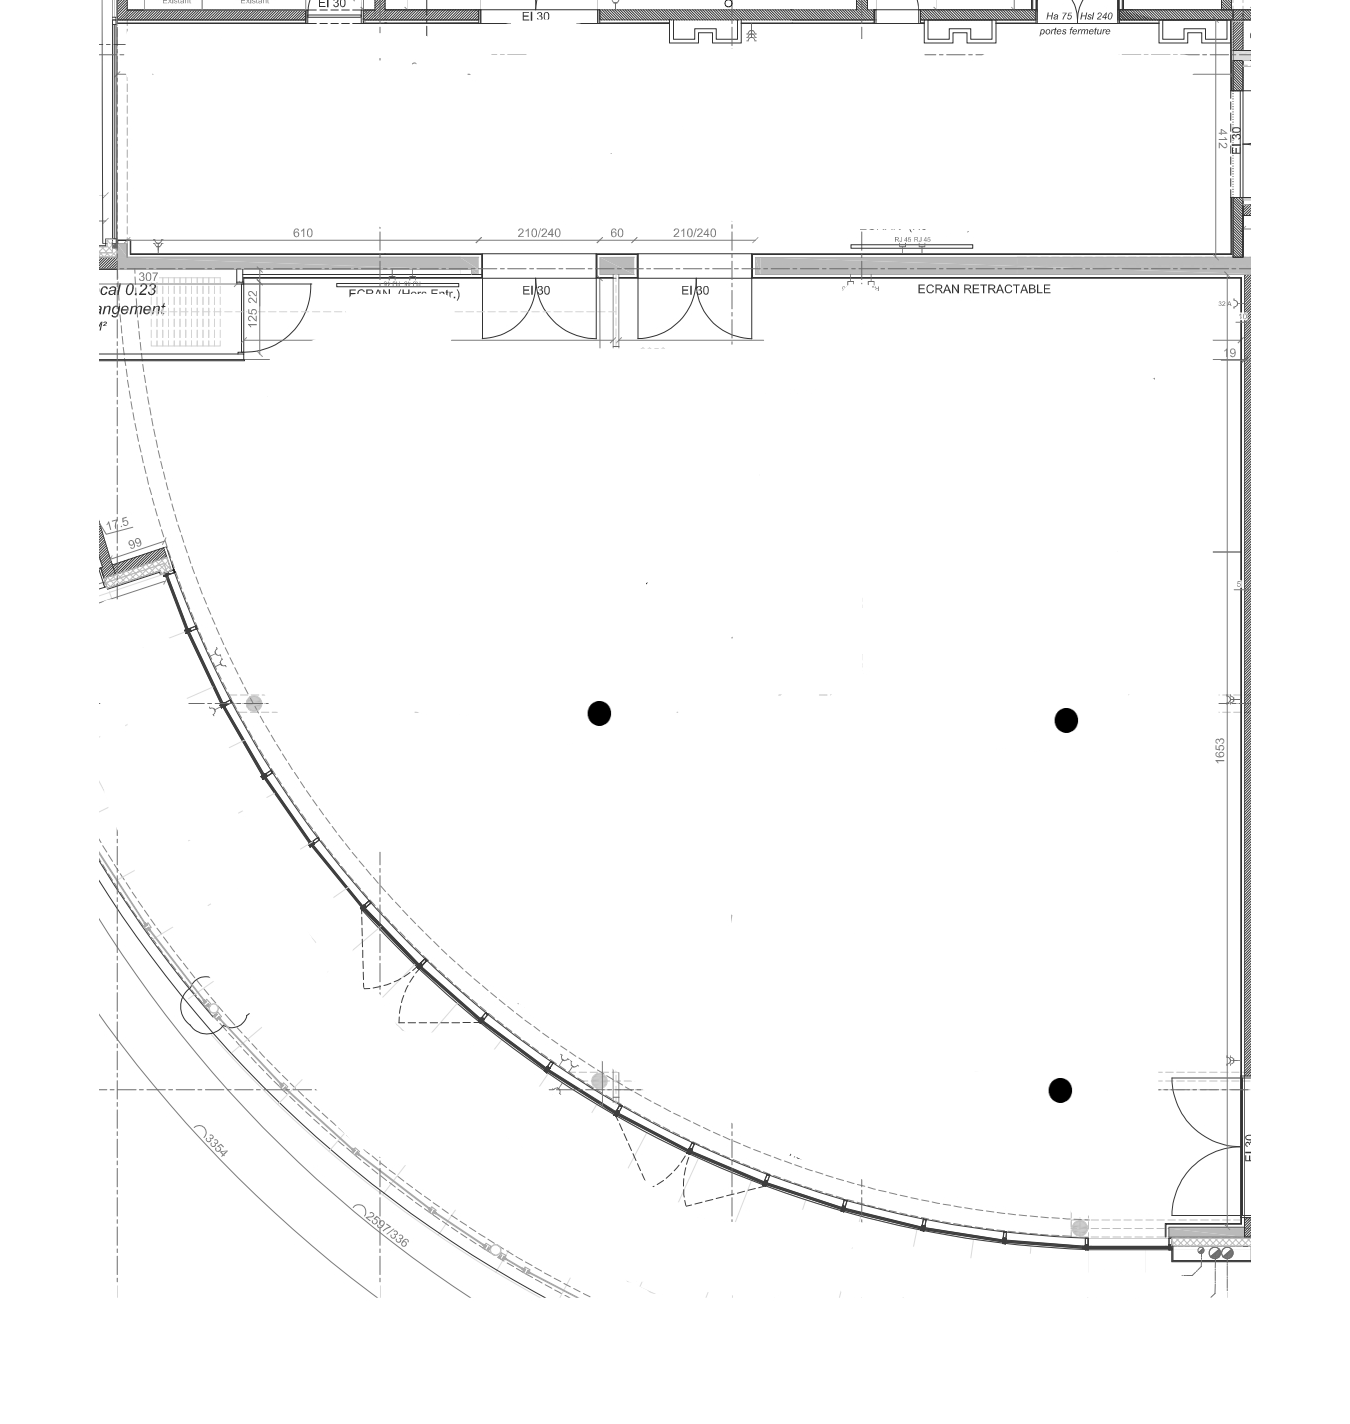
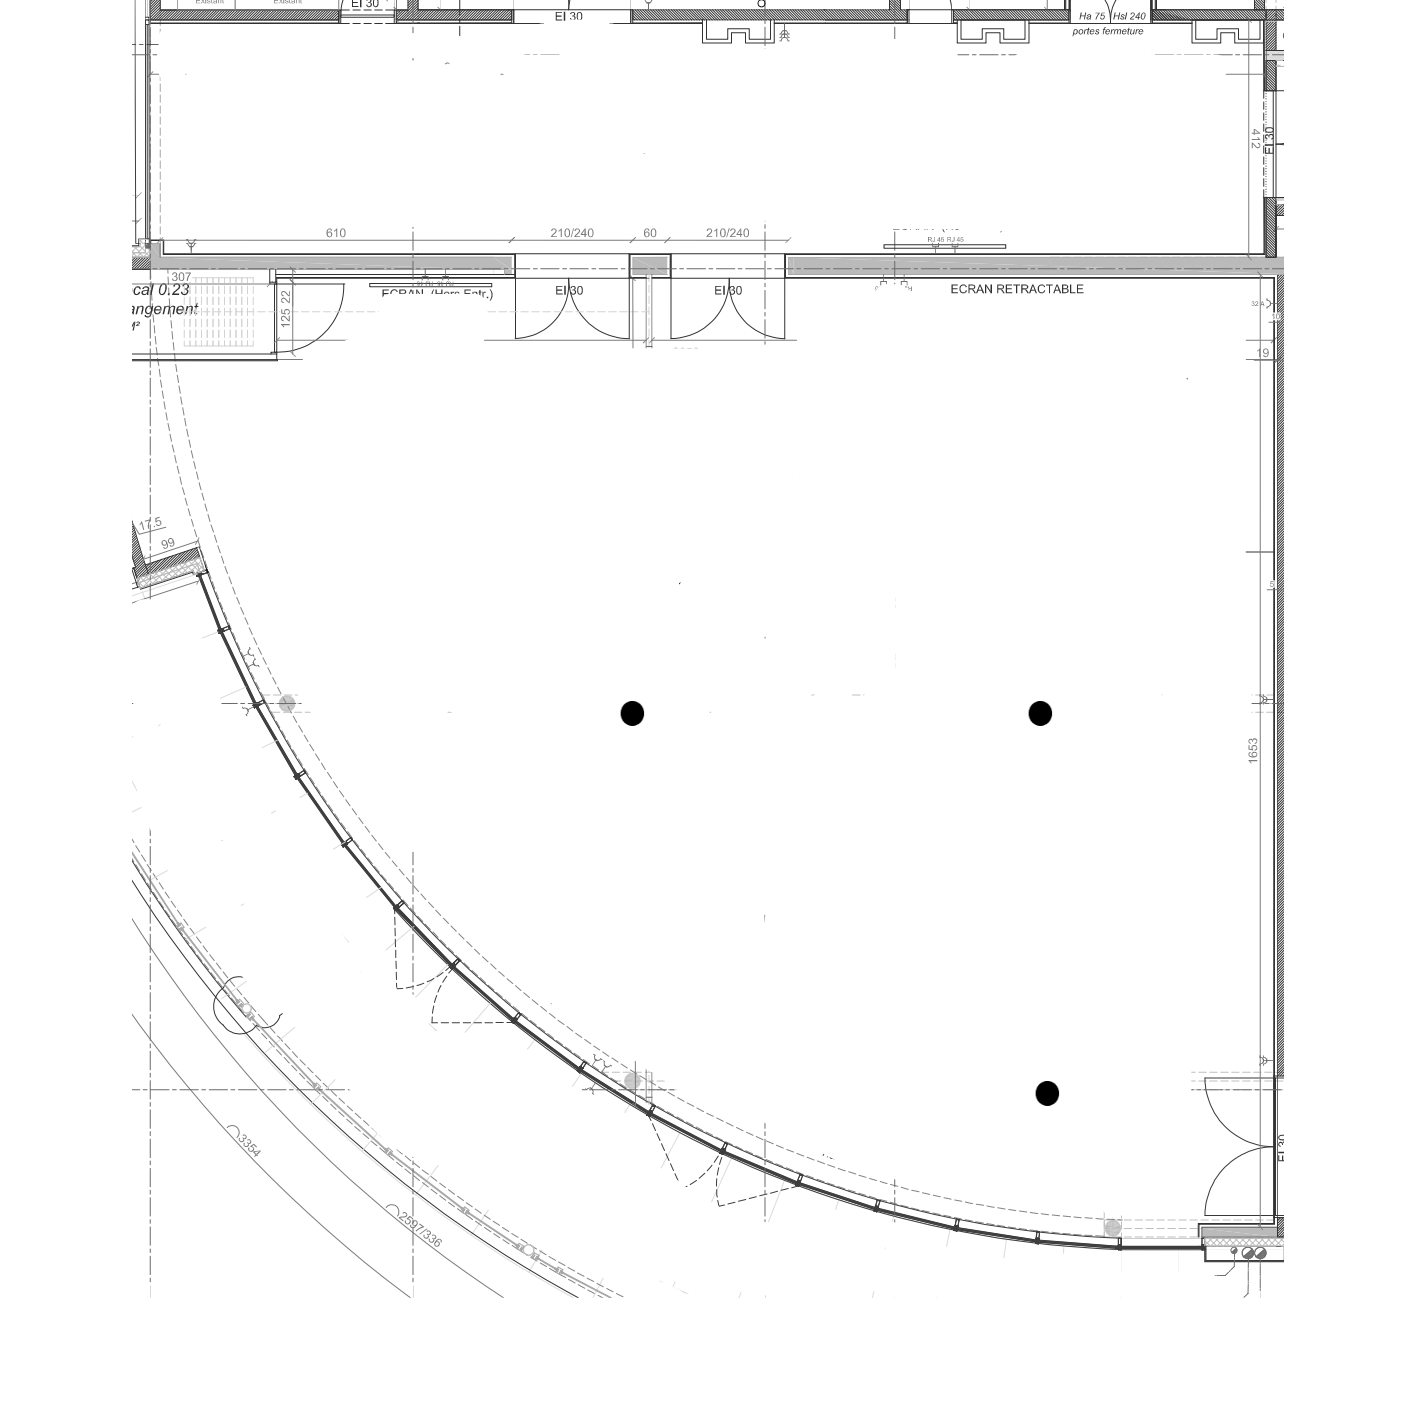
Nouvelles images des plans 9 et 10 (colonnes repositionnees) + largeurs recalees
Les nouvelles images font 1416 px de large. Calage sur l'echelle du plan 8
(21 m / 1424 px) : la nouvelle image 10 est au meme agrandissement que le
plan 8, la nouvelle image 9 est a 0,850. D'ou 20,9 m et 24,6 m.

diff --git a/index.html b/index.html
@@ -732,8 +732,8 @@ Vérifiez donc cette valeur avant de commencer l’aménagement.
       21,   // 6 Terrasse Yacht
       15,   // 7 Coffie Corner
       21,   // 8 Blue Ocean
-      23.4, // 9 Blue Ocean & Couloir
-      19.9, // 10 Blue
+      24.6, // 9 Blue Ocean & Couloir
+      20.9, // 10 Blue
       10,   // 11 Ocean
       35,   // 12 Casino Club
       DEFAULT_WIDTH_M, // 13
